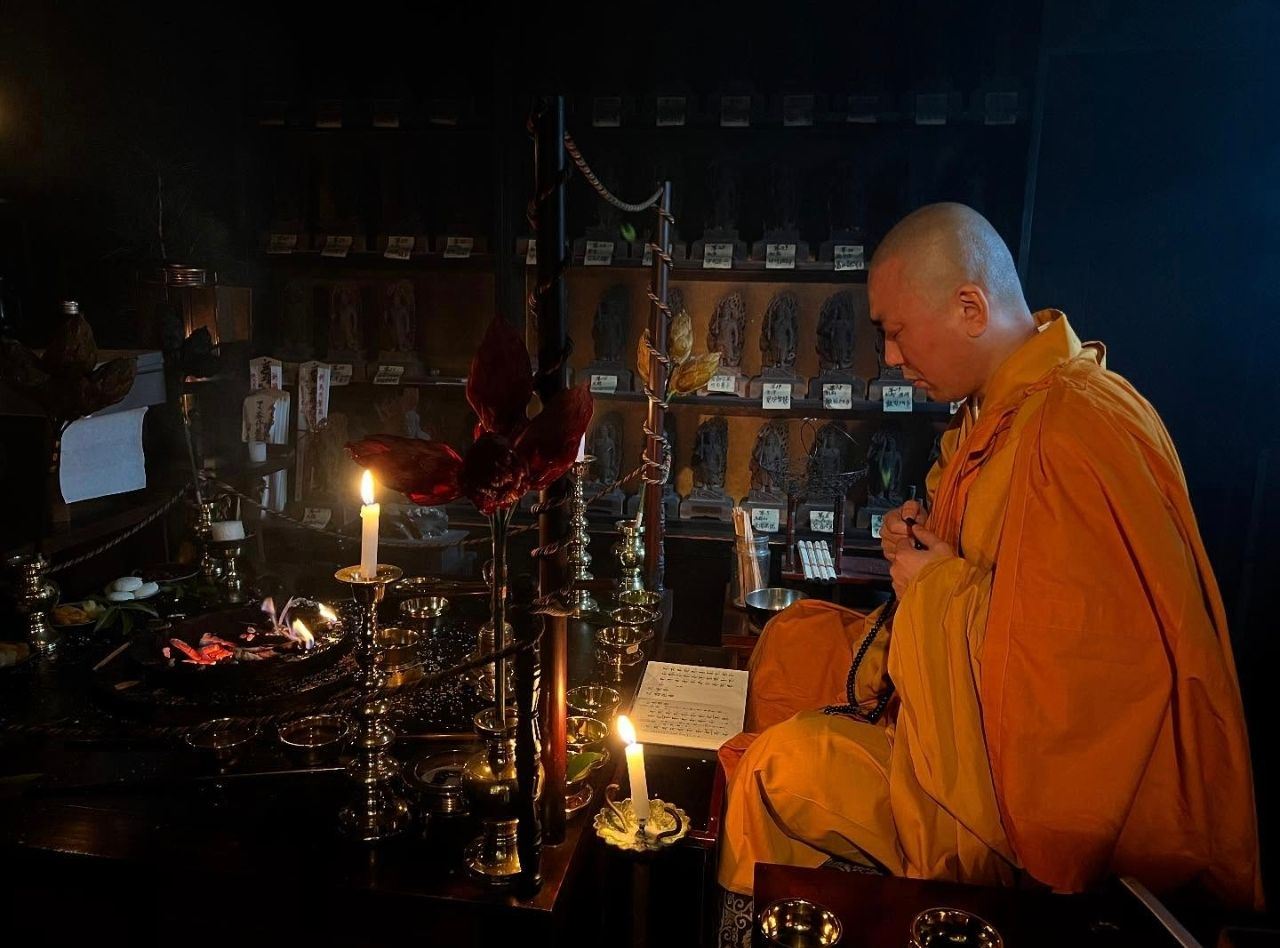
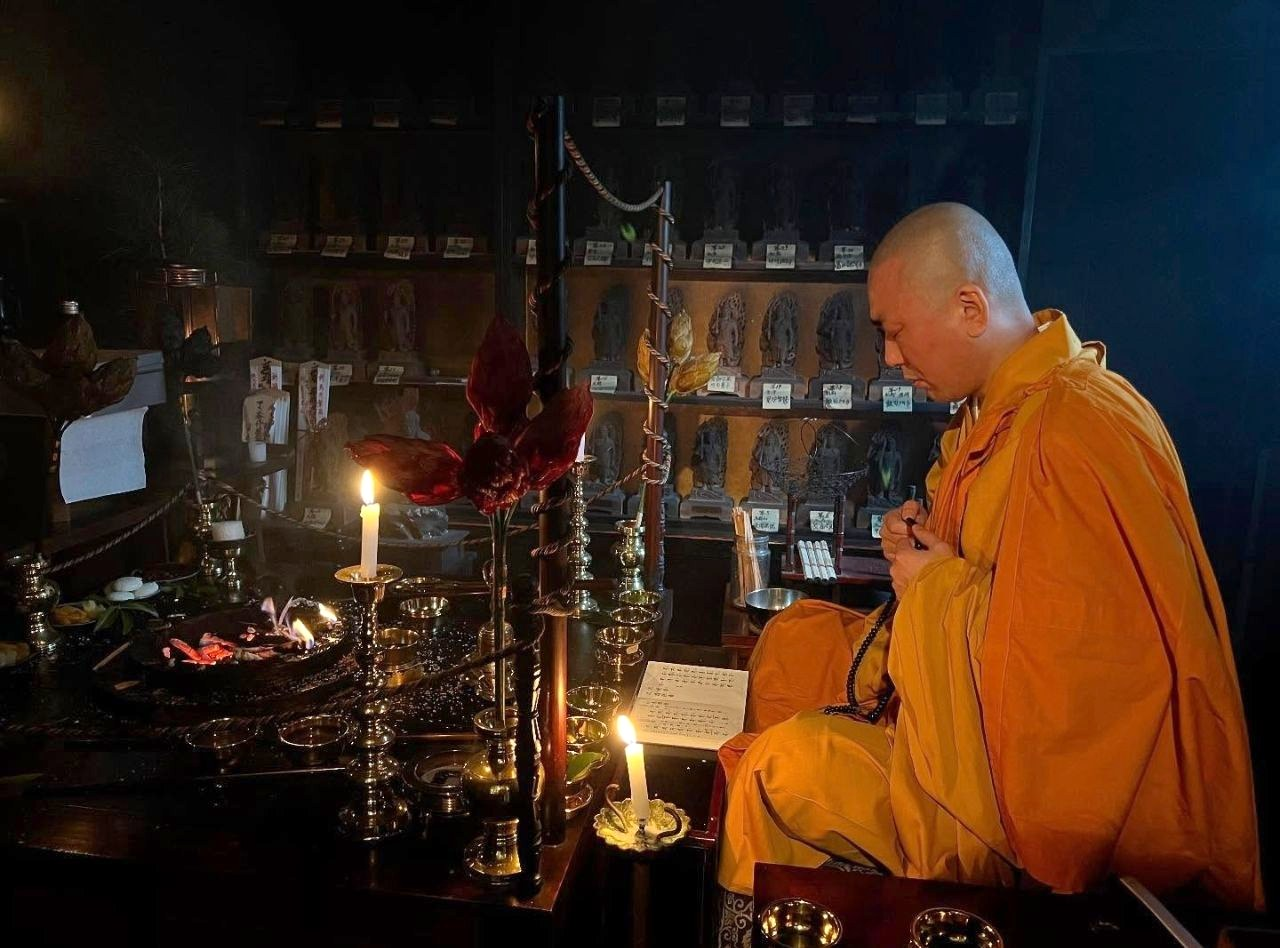
写真の調整：鯉の庭とお地蔵さまを鮮やかな大きい写真に差し替え、本館1階の和室と副住職の祈りの写真の明るさを整える

diff --git a/about.html b/about.html
@@ -1105,7 +1105,7 @@ body{background:var(--w1) var(--paper);}
     <span class="sec-eyebrow">TEMPLE</span>
     <div class="gold-bar"></div>
     <h2 class="sec-title" style="color:var(--ink);">高野山 別格本山として</h2>
-    <img src="images/gallery-jizo.jpg" alt="本覚院の境内に並ぶお地蔵さま。毛糸の帽子と前掛けを身につけた石の地蔵菩薩" class="content-img" width="800" height="600">
+    <img src="images/photos/jizo-rokutai.jpg" alt="本覚院の境内に並ぶお地蔵さま。毛糸の帽子と前掛けを身につけた石の地蔵菩薩" class="content-img" width="1400" height="1050">
     <p>本覚院は、高野山真言宗総本山金剛峯寺の塔頭寺院であり、別格本山です。ご本尊には智証大師の御作という不動明王像を安置し、平安時代・建久年間（1190年）の創建から今日まで法灯を守り続けています。当院では毎朝の勤行と住職の法話を行っており、ご宿泊の方はご自由にご参拝いただけます。</p>
     <p>また、別供養・永代供養・納骨供養・護摩供養・ご祈祷を随時承っております。供養やおまつりのことでお困りのことがございましたら、お気軽にご相談ください。</p>
   </div>

diff --git a/index.html b/index.html
@@ -1157,7 +1157,7 @@ body{background:var(--w1) var(--paper);}
 <section class="about-sec" id="about">
   <div class="about-inner">
     <div class="about-img-wrap">
-      <img src="images/gallery-jizo.jpg" alt="院内に並ぶお地蔵さま。毛糸の帽子と前掛けを身につけた石の地蔵菩薩" class="about-img" width="800" height="600">
+      <img src="images/photos/jizo-rokutai.jpg" alt="院内に並ぶお地蔵さま。毛糸の帽子と前掛けを身につけた石の地蔵菩薩" class="about-img" width="1400" height="1050">
     </div>
     <div class="about-text">
       <h2 class="about-title">本覚院について</h2>
@@ -1370,7 +1370,7 @@ body{background:var(--w1) var(--paper);}
         <div class="g-label">重森三玲の石庭</div>
       </div>
       <div class="g-item">
-        <img src="images/photos/koi-niwa.jpg" alt="錦鯉が泳ぐ池と石橋のある庭" loading="lazy" width="1600" height="1200">
+        <img src="images/photos/koi-niwa-2.jpg" alt="錦鯉が泳ぐ池と石橋のある庭" loading="lazy" width="1600" height="1200">
         <div class="g-label">池泉庭</div>
       </div>
       <div class="g-item">

diff --git a/en.html b/en.html
@@ -1172,7 +1172,7 @@ body{background:var(--w1) var(--paper);}
         <div class="g-label">Shigemori Mirei's Rock Garden</div>
       </div>
       <div class="g-item">
-        <img src="images/photos/koi-niwa.jpg" alt="A pond with koi and a stone bridge" loading="lazy" width="1600" height="1200">
+        <img src="images/photos/koi-niwa-2.jpg" alt="A pond with koi and a stone bridge" loading="lazy" width="1600" height="1200">
         <div class="g-label">Pond Garden</div>
       </div>
       <div class="g-item">
@@ -1199,7 +1199,7 @@ body{background:var(--w1) var(--paper);}
 <section class="about-sec" id="about">
   <div class="about-inner">
     <div class="about-img-wrap">
-      <img src="images/gallery-jizo.jpg" alt="A row of stone Jizō bodhisattva statues in the temple, wearing knitted caps and bibs" class="about-img" width="800" height="600">
+      <img src="images/photos/jizo-rokutai.jpg" alt="A row of stone Jizō bodhisattva statues in the temple, wearing knitted caps and bibs" class="about-img" width="1400" height="1050">
     </div>
     <div class="about-text">
       <h2 class="about-title">About Hongakuin</h2>

diff --git a/shukubo.html b/shukubo.html
@@ -1289,7 +1289,7 @@ body{background:var(--w1) var(--paper);}
         <div class="g-label">重森三玲の石庭</div>
       </div>
       <div class="g-item">
-        <img src="images/photos/koi-niwa.jpg" alt="錦鯉が泳ぐ池と石橋のある庭" loading="lazy" width="1600" height="1200">
+        <img src="images/photos/koi-niwa-2.jpg" alt="錦鯉が泳ぐ池と石橋のある庭" loading="lazy" width="1600" height="1200">
         <div class="g-label">池泉庭</div>
       </div>
       <div class="g-item">
